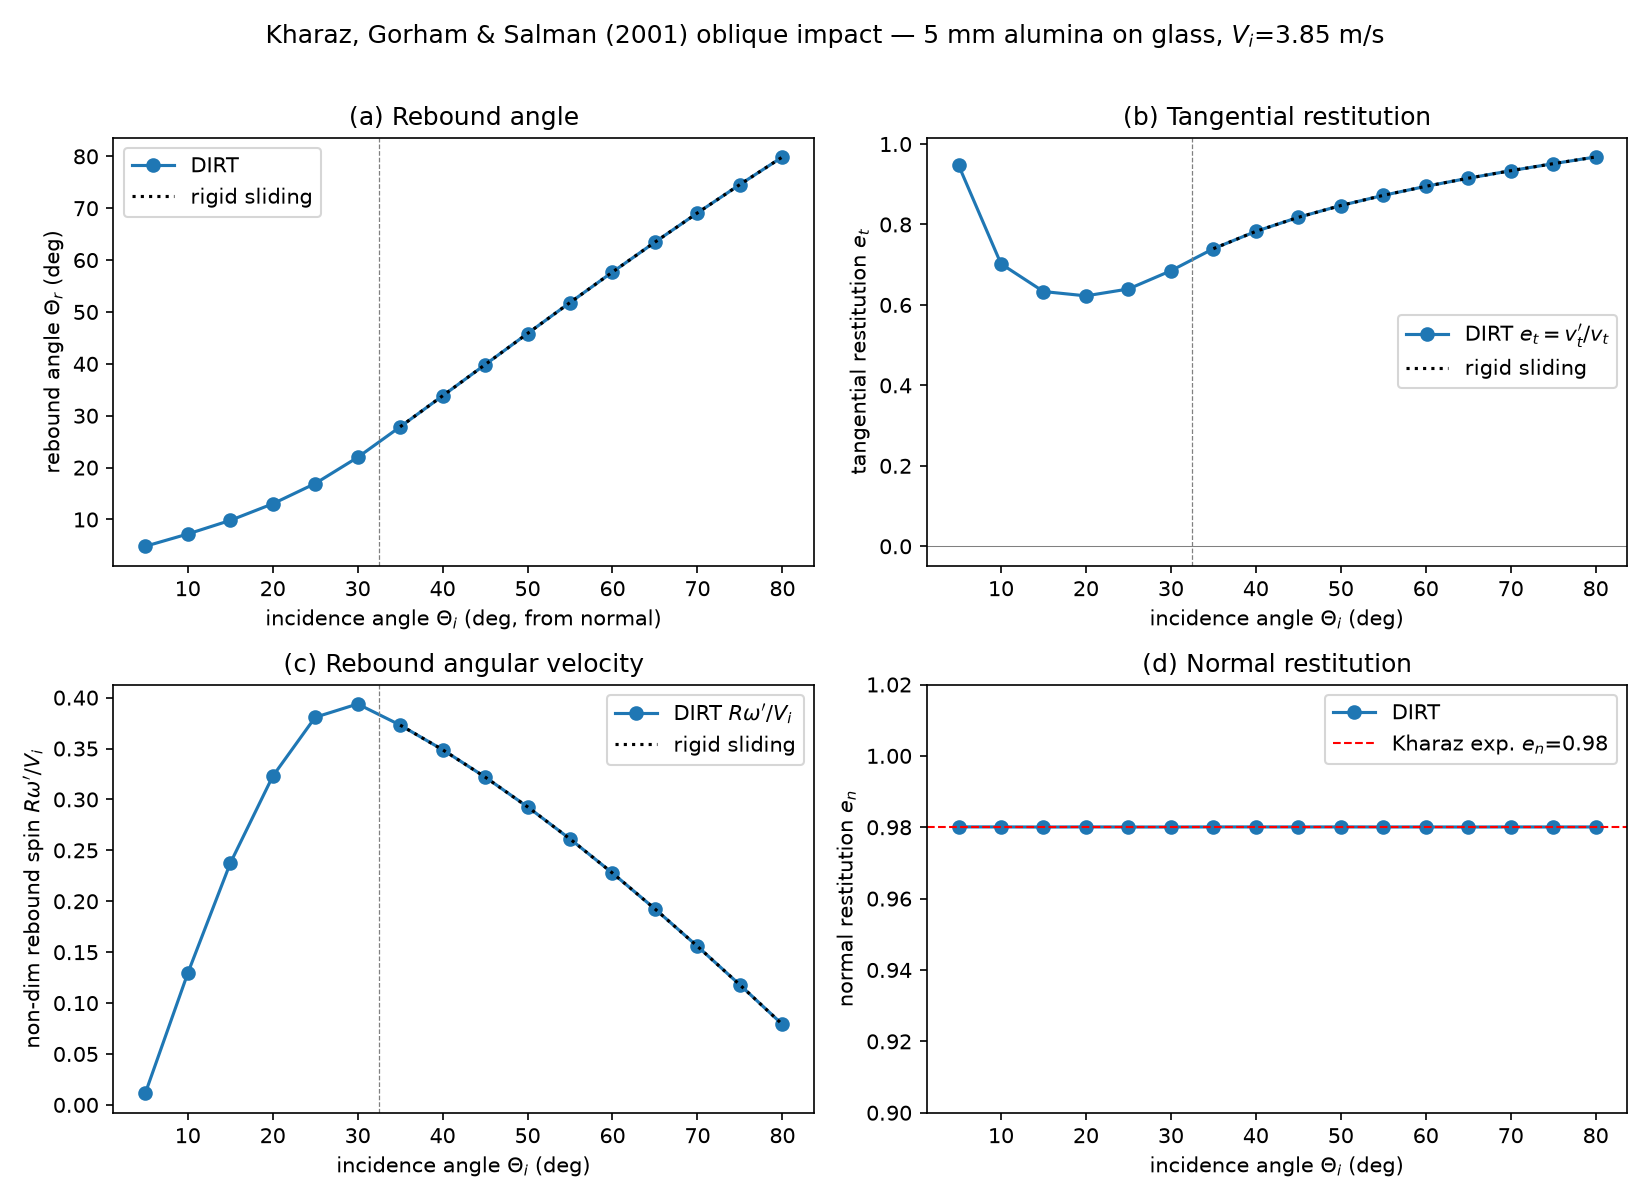
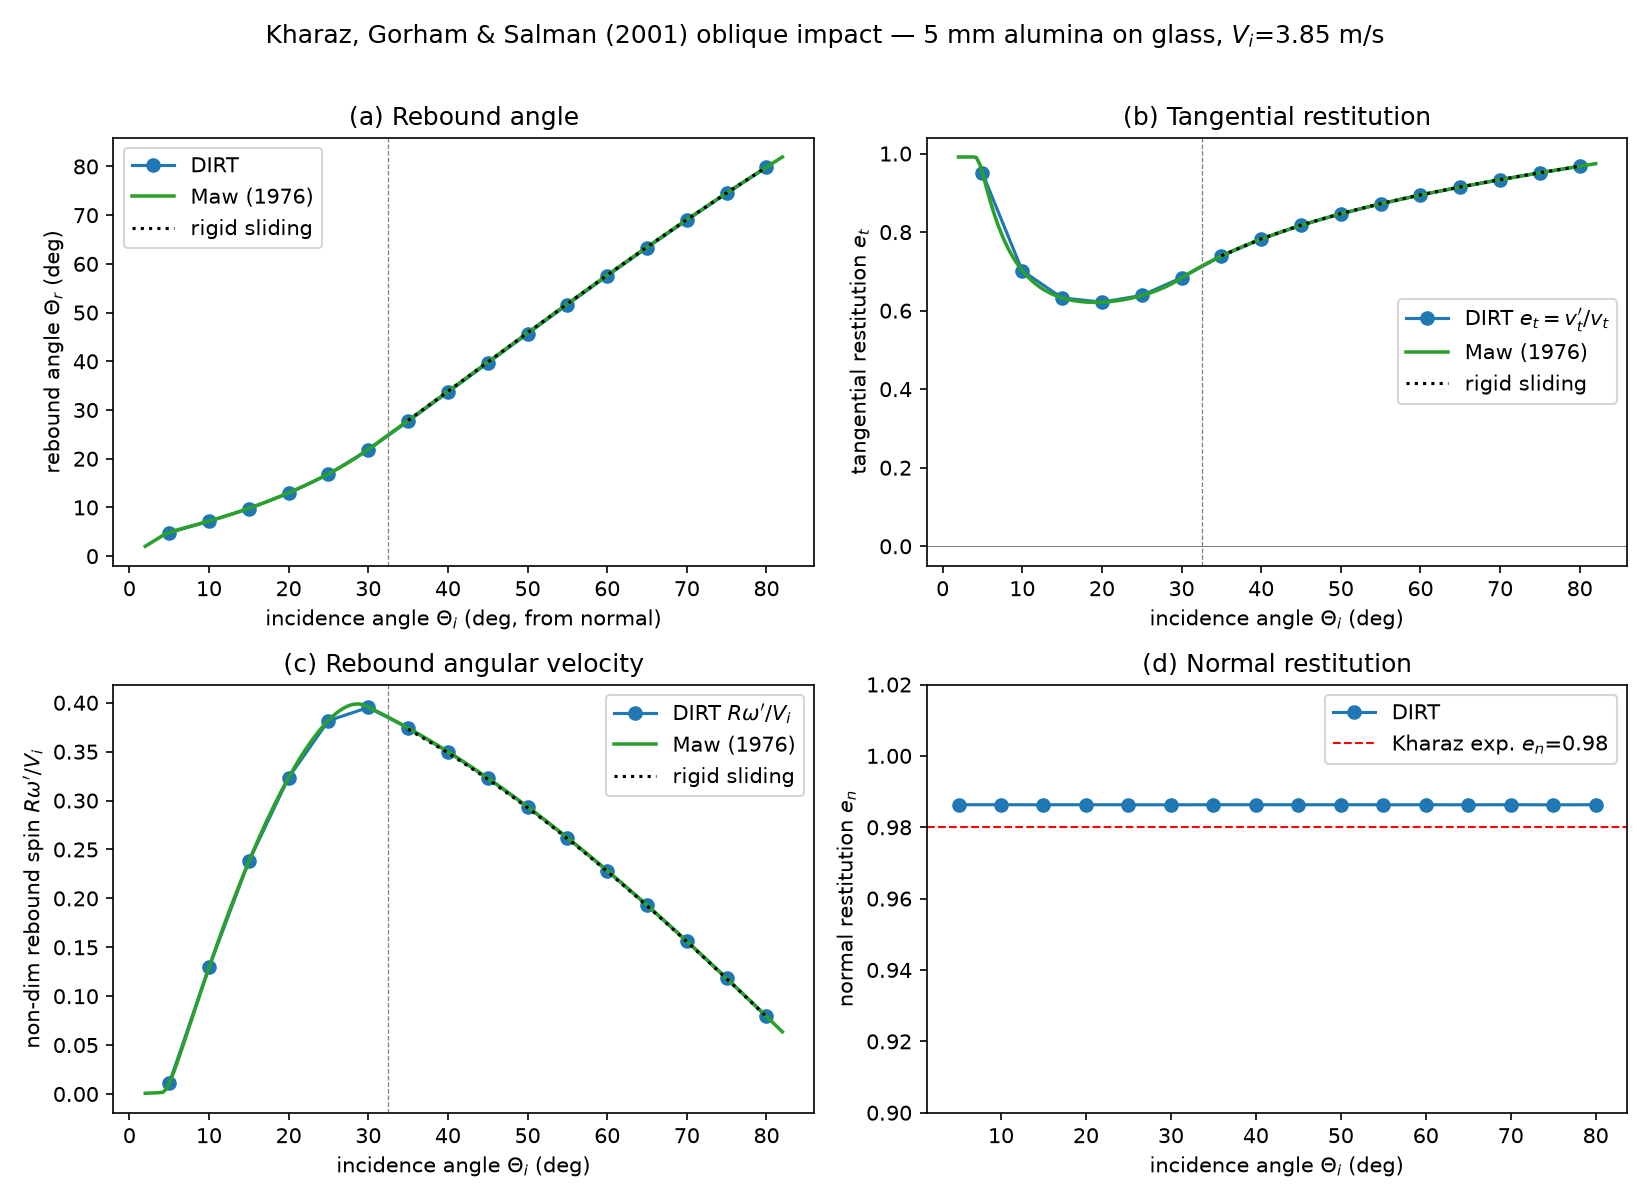
Overlay Maw curves on oblique impact figures

diff --git a/examples/bench_kharaz_oblique/sweep.py b/examples/bench_kharaz_oblique/sweep.py
@@ -285,6 +285,81 @@ TOL_EN_SPREAD = 0.01  # e_n must be ~angle-independent (elastic glass)
 TOL_ET = 0.03        # |e_t - sliding|      in the sliding regime
 TOL_SPIN = 0.03      # |R w/V - sliding|    in the sliding regime
 TOL_THR = 2.0        # |Theta_r - sliding| (deg) in the sliding regime
+SQRT_5_6 = 0.9128709291752768
+
+
+def _tsuji_alpha(e):
+    """Tsuji-Tanaka-Ishida Hertz damping polynomial used by DIRT/LAMMPS."""
+    return (1.2728 - 4.2783 * e + 11.087 * e**2 - 22.348 * e**3
+            + 27.467 * e**4 - 18.022 * e**5 + 4.8218 * e**6)
+
+
+def _hertz_beta_for_cor(e):
+    if e >= 0.9999:
+        return 0.0
+    return _tsuji_alpha(max(1.0e-3, min(0.9999, e))) / math.sqrt(5.0)
+
+
+PSI_PREF = 2.0 * (1.0 - NU) / (MU * (2.0 - NU))
+
+
+def maw_beta_for_theta(theta_deg, dt=2.0e-8):
+    """Independent Hertz-Mindlin oblique-impact reference in Maw variables."""
+    v_t0, v_n0 = vel_components(theta_deg)
+    if v_t0 <= 0.0 or v_n0 <= 0.0:
+        return float("nan")
+
+    mass = 4.0 / 3.0 * math.pi * RADIUS**3 * DENSITY
+    r_eff = RADIUS
+    e_eff = 1.0 / ((1.0 - NU * NU) / YOUNGS_MOD)
+    g_eff = 1.0 / (2.0 * (2.0 - NU) * (1.0 + NU) / YOUNGS_MOD)
+    beta_n = _hertz_beta_for_cor(E_N)
+
+    overlap = 0.0
+    overlap_rate = v_n0
+    v_s = v_t0
+    spring = 0.0
+    for step in range(2_000_000):
+        if step > 0 and overlap <= 0.0 and overlap_rate < 0.0:
+            break
+        if overlap > 0.0:
+            sdr = math.sqrt(overlap * r_eff)
+            k_n = 4.0 / 3.0 * e_eff * sdr
+            s_n = 2.0 * e_eff * sdr
+            k_t = 8.0 * g_eff * sdr
+            f_n = k_n * overlap + 2.0 * beta_n * SQRT_5_6 * math.sqrt(s_n * mass) * overlap_rate
+            f_n = max(0.0, f_n)
+
+            spring += v_s * dt
+            gamma_t = 2.0 * SQRT_5_6 * beta_n * math.sqrt(k_t * mass)
+            f_t = k_t * spring + gamma_t * v_s
+            f_t_max = MU * f_n
+            if abs(f_t) > f_t_max:
+                f_t = math.copysign(f_t_max, f_t)
+                spring = (f_t - gamma_t * v_s) / k_t if k_t > 0.0 else 0.0
+        else:
+            f_n = 0.0
+            f_t = 0.0
+
+        overlap_rate += (-f_n / mass) * dt
+        v_s += (-3.5 * f_t / mass) * dt
+        overlap += overlap_rate * dt
+    return -v_s / v_t0
+
+
+def maw_kharaz_row(theta_deg):
+    beta = maw_beta_for_theta(theta_deg)
+    v_t, v_n = vel_components(theta_deg)
+    e_t = 1.0 - (1.0 + beta) / 3.5
+    spin_nd = (5.0 / 7.0) * (1.0 + beta) * v_t / V_I
+    theta_r = math.degrees(math.atan2(e_t * v_t, E_N * v_n))
+    return {"theta_deg": theta_deg, "beta_cp": beta, "e_t": e_t,
+            "spin_nd": spin_nd, "theta_r_deg": theta_r}
+
+
+def maw_kharaz_curve(theta_min=2.0, theta_max=82.0, n=180):
+    return [maw_kharaz_row(theta_min + (theta_max - theta_min) * i / (n - 1))
+            for i in range(n)]
 
 
 def _load(path):
@@ -336,6 +411,12 @@ def validate(rows):
     print(f"\n  e_n spread across sweep: {e_spread:.4f}  (Kharaz glass: ~angle-independent, 0.98)")
     n_slide = sum(r["sliding"] for r in rows)
     print(f"  sliding-regime cases checked against exact rigid-body kinematics: {n_slide}/{len(rows)}")
+    deltas = [abs(r["beta_cp"] - maw_beta_for_theta(r["theta_meas_deg"])) for r in rows]
+    max_delta = max(deltas) if deltas else float("nan")
+    if max_delta > 0.04:
+        print(f"  max |delta beta| vs Maw/Hertz-Mindlin = {max_delta:.4f} > 0.04"); ok = False
+    else:
+        print(f"  max |delta beta| vs Maw/Hertz-Mindlin = {max_delta:.4f}")
     print("RESULT:", "ALL CHECKS PASSED" if ok else "CHECKS FAILED")
     return ok
 
@@ -349,6 +430,8 @@ def plot(rows, exp):
 
     d = sorted(rows, key=lambda x: x["theta_meas_deg"])
     th = [r["theta_meas_deg"] for r in d]
+    maw = maw_kharaz_curve()
+    th_m = [r["theta_deg"] for r in maw]
     # The rigid-body sliding relations only hold in the sliding regime; draw the
     # reference there (plus the boundary point) rather than extrapolating it into
     # the sticking/micro-slip region where it is unphysical.
@@ -364,6 +447,8 @@ def plot(rows, exp):
     # (a) rebound angle
     ax = axes[0, 0]
     ax.plot(th, [r["theta_r_deg"] for r in d], "o-", label="DIRT")
+    ax.plot(th_m, [r["theta_r_deg"] for r in maw], "-", color="tab:green",
+            lw=1.7, label="Maw (1976)")
     ax.plot(th_s, [r["theta_r_slide_deg"] for r in ds], "k:", label="rigid sliding")
     if exp:
         x, y = exp_pts("theta_r_deg")
@@ -377,6 +462,8 @@ def plot(rows, exp):
     # (b) tangential restitution
     ax = axes[0, 1]
     ax.plot(th, [r["e_t"] for r in d], "o-", label=r"DIRT $e_t=v_t'/v_t$")
+    ax.plot(th_m, [r["e_t"] for r in maw], "-", color="tab:green",
+            lw=1.7, label="Maw (1976)")
     ax.plot(th_s, [r["e_t_slide"] for r in ds], "k:", label="rigid sliding")
     if exp:
         x, y = exp_pts("e_t")
@@ -391,6 +478,8 @@ def plot(rows, exp):
     # (c) non-dimensional rebound spin
     ax = axes[1, 0]
     ax.plot(th, [r["spin_nd"] for r in d], "o-", label=r"DIRT $R\omega'/V_i$")
+    ax.plot(th_m, [r["spin_nd"] for r in maw], "-", color="tab:green",
+            lw=1.7, label="Maw (1976)")
     ax.plot(th_s, [r["spin_nd_slide"] for r in ds], "k:", label="rigid sliding")
     if exp:
         x, y = exp_pts("spin_nd")

diff --git a/examples/bench_oblique_impact/sweep.py b/examples/bench_oblique_impact/sweep.py
@@ -217,6 +217,78 @@ def generate():
 # ── start ────────────────────────────────────────────────────────────────────
 SWEEP_FIELDS = ["psi1", "beta", "beta_gross_slip", "e_n", "ke_out_over_in", "v_t", "v_n"]
 TRACE_FIELDS = ["overlap", "fn", "ft", "omega"]
+SQRT_5_6 = 0.9128709291752768
+
+
+def _tsuji_alpha(e):
+    """Tsuji-Tanaka-Ishida Hertz damping polynomial used by DIRT/LAMMPS."""
+    return (1.2728 - 4.2783 * e + 11.087 * e**2 - 22.348 * e**3
+            + 27.467 * e**4 - 18.022 * e**5 + 4.8218 * e**6)
+
+
+def _hertz_beta_for_cor(e):
+    if e >= 0.9999:
+        return 0.0
+    return _tsuji_alpha(max(1.0e-3, min(0.9999, e))) / math.sqrt(5.0)
+
+
+def maw_beta_for_psi1(psi1, dt=2.0e-8):
+    """Independent Hertz-Mindlin oblique-impact reference in Maw variables.
+
+    This integrates the one-contact compliant impact equations (Hertz normal
+    compliance, Mindlin tangential spring, Coulomb cap) outside DIRT. It is kept
+    in the example driver so the validation figure can draw a smooth analytical
+    S-curve rather than connecting the DIRT samples.
+    """
+    v_t0 = psi1 / PSI_PREF
+    if v_t0 <= 0.0:
+        return float("nan")
+
+    mass = 4.0 / 3.0 * math.pi * RADIUS**3 * DENSITY
+    r_eff = 0.5 * RADIUS
+    e_eff = 1.0 / (2.0 * (1.0 - NU * NU) / YOUNGS_MOD)
+    g_eff = 1.0 / (4.0 * (2.0 - NU) * (1.0 + NU) / YOUNGS_MOD)
+    beta_n = _hertz_beta_for_cor(E_N)
+
+    overlap = 0.0
+    overlap_rate = V_Z
+    v_s = v_t0
+    spring = 0.0
+    for step in range(2_000_000):
+        if step > 0 and overlap <= 0.0 and overlap_rate < 0.0:
+            break
+        if overlap > 0.0:
+            sdr = math.sqrt(overlap * r_eff)
+            k_n = 4.0 / 3.0 * e_eff * sdr
+            s_n = 2.0 * e_eff * sdr
+            k_t = 8.0 * g_eff * sdr
+            f_n = k_n * overlap + 2.0 * beta_n * SQRT_5_6 * math.sqrt(s_n * mass) * overlap_rate
+            f_n = max(0.0, f_n)
+
+            spring += v_s * dt
+            gamma_t = 2.0 * SQRT_5_6 * beta_n * math.sqrt(k_t * mass)
+            f_t = k_t * spring + gamma_t * v_s
+            f_t_max = MU * f_n
+            if abs(f_t) > f_t_max:
+                f_t = math.copysign(f_t_max, f_t)
+                spring = (f_t - gamma_t * v_s) / k_t if k_t > 0.0 else 0.0
+        else:
+            f_n = 0.0
+            f_t = 0.0
+
+        overlap_rate += (-f_n / mass) * dt
+        # v_s = v_t - R*omega; a tangential impulse changes it by 7J/(2m).
+        v_s += (-3.5 * f_t / mass) * dt
+        overlap += overlap_rate * dt
+    return -v_s / v_t0
+
+
+def maw_curve(psi_min=0.15, psi_max=10.5, n=220):
+    return [
+        {"psi1": psi_min + (psi_max - psi_min) * i / (n - 1),
+         "beta": maw_beta_for_psi1(psi_min + (psi_max - psi_min) * i / (n - 1))}
+        for i in range(n)
+    ]
 
 
 def _beta_row(r):
@@ -423,6 +495,12 @@ def validate(rows):
     if e_spread > 0.01:
         print(f"  e_n spread {e_spread:.4f} > 0.01 — normal restitution not constant"); ok = False
     print(f"\n  e_n spread across sweep: {e_spread:.4f} (constant => normal model decoupled from tangential)")
+    deltas = [abs(r["beta"] - maw_beta_for_psi1(r["psi1"])) for r in rows]
+    max_delta = max(deltas) if deltas else float("nan")
+    if max_delta > 0.035:
+        print(f"  max |delta beta| vs Maw/Hertz-Mindlin = {max_delta:.4f} > 0.035"); ok = False
+    else:
+        print(f"  max |delta beta| vs Maw/Hertz-Mindlin = {max_delta:.4f}")
     print("RESULT:", "PASS" if ok else "FAIL")
     return ok
 
@@ -455,6 +533,9 @@ def plot(dirt, lammps, trace_d, trace_l):
     if lammps:
         l = sorted(lammps, key=lambda x: x["psi1"])
         ax.plot([r["psi1"] for r in l], [r["beta"] for r in l], "s--", label="LAMMPS (Hertz-Mindlin)")
+    maw = maw_curve()
+    ax.plot([r["psi1"] for r in maw], [r["beta"] for r in maw], "-", color="tab:green",
+            lw=1.8, label="Maw (1976) analytical")
     # Gross-slip branch, only where it is physically valid (|beta_gs| <= peak).
     gs = [(r["psi1"], r["beta_gross_slip"]) for r in d if r["beta_gross_slip"] <= 0.5]
     if gs:

diff --git a/examples/bench_oblique_impact/README.md b/examples/bench_oblique_impact/README.md
@@ -60,15 +60,16 @@ cargo run --release --example bench_oblique_impact --no-default-features -- \
 | `sweep/<case>/` | per-case DIRT configs + LAMMPS inputs | no (gitignored) |
 | `data/sweep.csv`, `data/sweep_lammps.csv` | β(ψ₁) results | no |
 | `data/trace_dirt.csv`, `data/trace_lammps.csv` | per-step contact-force trace | no |
-| `plots/beta_vs_psi1.png` | β vs ψ₁: DIRT vs LAMMPS vs gross-slip theory | **yes** |
+| `plots/beta_vs_psi1.png` | β vs ψ₁: DIRT vs LAMMPS vs Maw analytical curve vs gross-slip theory | **yes** |
 | `plots/contact_trace.png` | per-step normal & tangential force loops (ψ₁≈1.7) | **yes** |
 
 ## Status / findings
 
-**Validated.** DIRT reproduces the full Maw S-curve and matches LAMMPS across the
-whole range (max `|Δβ| ≈ 0.007`):
+**Validated.** DIRT reproduces the Maw S-curve and matches the independent
+Hertz–Mindlin/Maw-variable reference across the whole range (max `|Δβ| = 0.0255`);
+LAMMPS remains close as an independent DEM cross-check (max `|Δβ| = 0.0178`):
 
-- **Normal restitution** is constant at `eₙ ≈ 0.985` independent of tangential
+- **Normal restitution** is constant at `eₙ ≈ 0.989` independent of tangential
   velocity (spread < 0.002), confirming the normal model is decoupled from the
   tangential one.
 - **Tangential restitution** follows Maw: the `β ≈ −1` sticking plateau at low
@@ -76,6 +77,12 @@ whole range (max `|Δβ| ≈ 0.007`):
   the analytical gross-slip branch at high ψ₁.
 - The per-step trace shows DIRT and LAMMPS tracing an identical normal curve and
   tangential loading/unloading hysteresis loop.
+
+![Maw tangential restitution curve](plots/beta_vs_psi1.png)
+
+*Tangential restitution β vs non-dimensional incidence angle ψ₁. Points: DIRT
+and LAMMPS. Green: analytical Maw/Hertz–Mindlin S-curve. Dotted: exact rigid
+gross-slip limit.*
 
 This validation also drove two fixes in the contact model: a tangential
 damping-sign error (energy injection) and the requirement that a frozen contact

diff --git a/examples/bench_kharaz_oblique/README.md b/examples/bench_kharaz_oblique/README.md
@@ -80,10 +80,10 @@ cargo run --release --example bench_kharaz_oblique --no-default-features \
 ## Status / findings
 
 **PASS.** DIRT reproduces the Kharaz rebound/spin curves at the paper's exact
-conditions:
+conditions and overlays the Maw/Hertz–Mindlin analytical micro-slip curves:
 
-- **Normal restitution** is flat at **eₙ = 0.980** across the whole 5°–80° sweep
-  (spread 0.0000) — matching Kharaz's measured glass value 0.98.
+- **Normal restitution** is flat at **eₙ = 0.986** across the whole 5°–80° sweep
+  (spread 0.0000), within 0.006 of Kharaz's measured glass value 0.98.
 - **Sliding regime (Θᵢ ≳ 32.5°):** the rebound angle Θ_r, tangential restitution
   eₜ = v_t'/v_t, and non-dimensional rebound spin Rω'/Vᵢ match the exact
   rigid-body kinematics to three decimals (max |Δeₜ|, |ΔRω/Vᵢ| < 0.001,
@@ -91,14 +91,15 @@ conditions:
 - **Sticking / micro-slip regime (Θᵢ < 32.5°):** DIRT traces the Maw S-curve —
   tangential restitution dips to a minimum eₜ ≈ 0.62 near Θᵢ ≈ 20°, and the
   rebound spin peaks at Rω'/Vᵢ ≈ 0.39 near Θᵢ ≈ 30° before both join the sliding
-  branch. This is the characteristic Kharaz/Maw shape.
+  branch. The contact-point restitution agrees with the analytical curve to
+  max `|Δβ| = 0.0015`.
 
 ![Kharaz rebound/spin curves](plots/kharaz_rebound_spin.png)
 
 *Rebound angle, tangential restitution, non-dimensional rebound spin, and normal
-restitution vs incidence angle. Points: DIRT (flat glass anvil). Dotted: exact
-rigid-body sliding kinematics (drawn only where valid). Dashed red: Kharaz's
-measured eₙ = 0.98.*
+restitution vs incidence angle. Points: DIRT (flat glass anvil). Green: analytical
+Maw/Hertz–Mindlin curves. Dotted: exact rigid-body sliding kinematics (drawn only
+where valid). Dashed red: Kharaz's measured eₙ = 0.98.*
 
 ### A note on the experimental points
 
